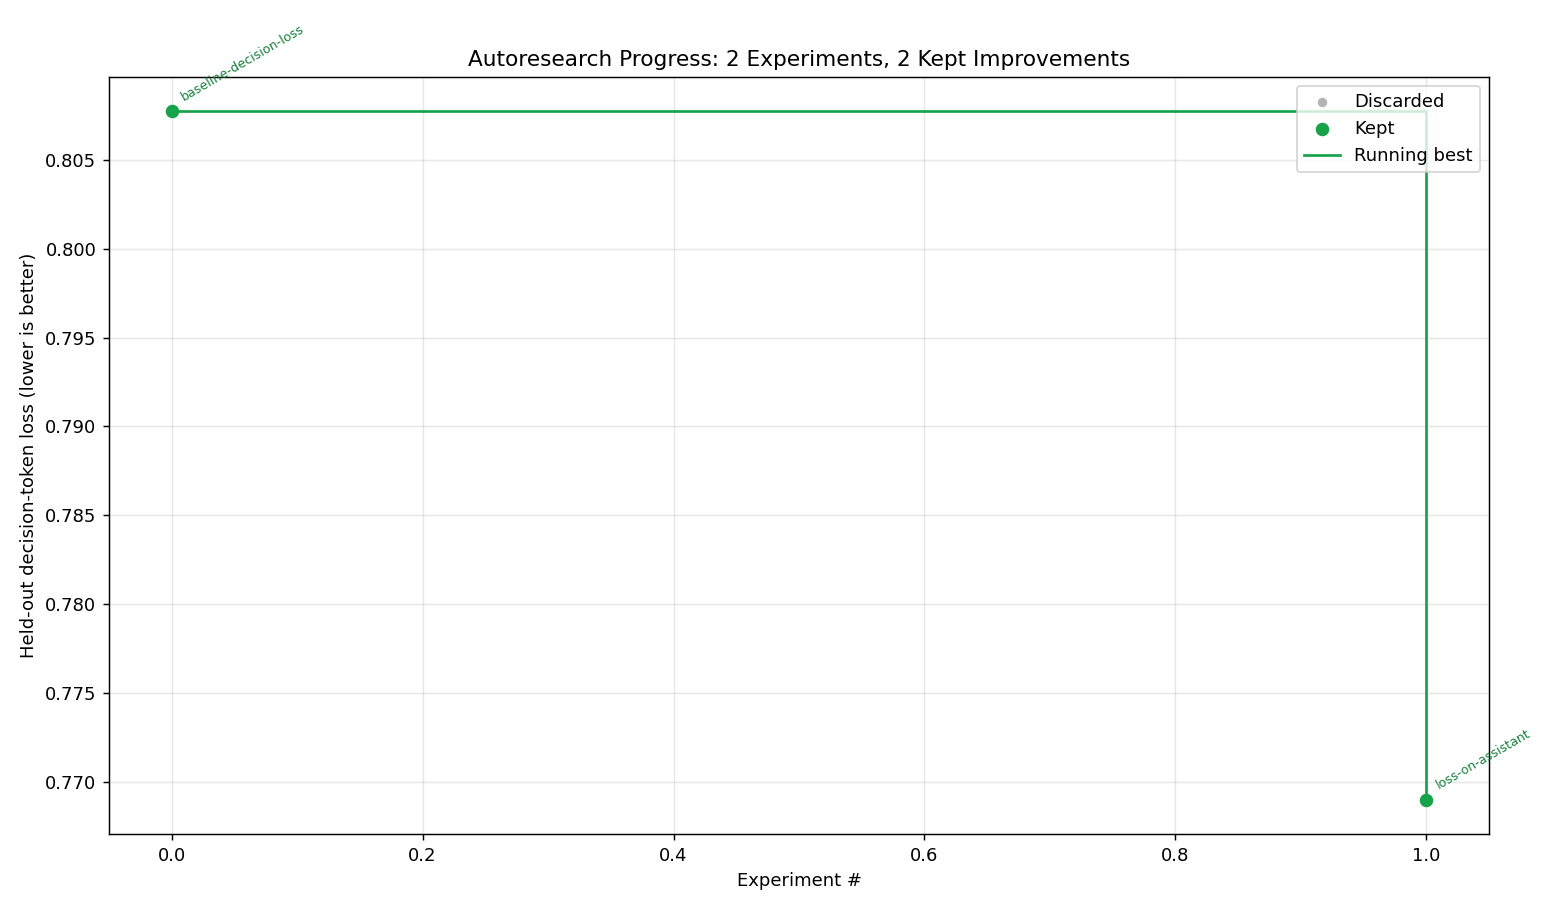
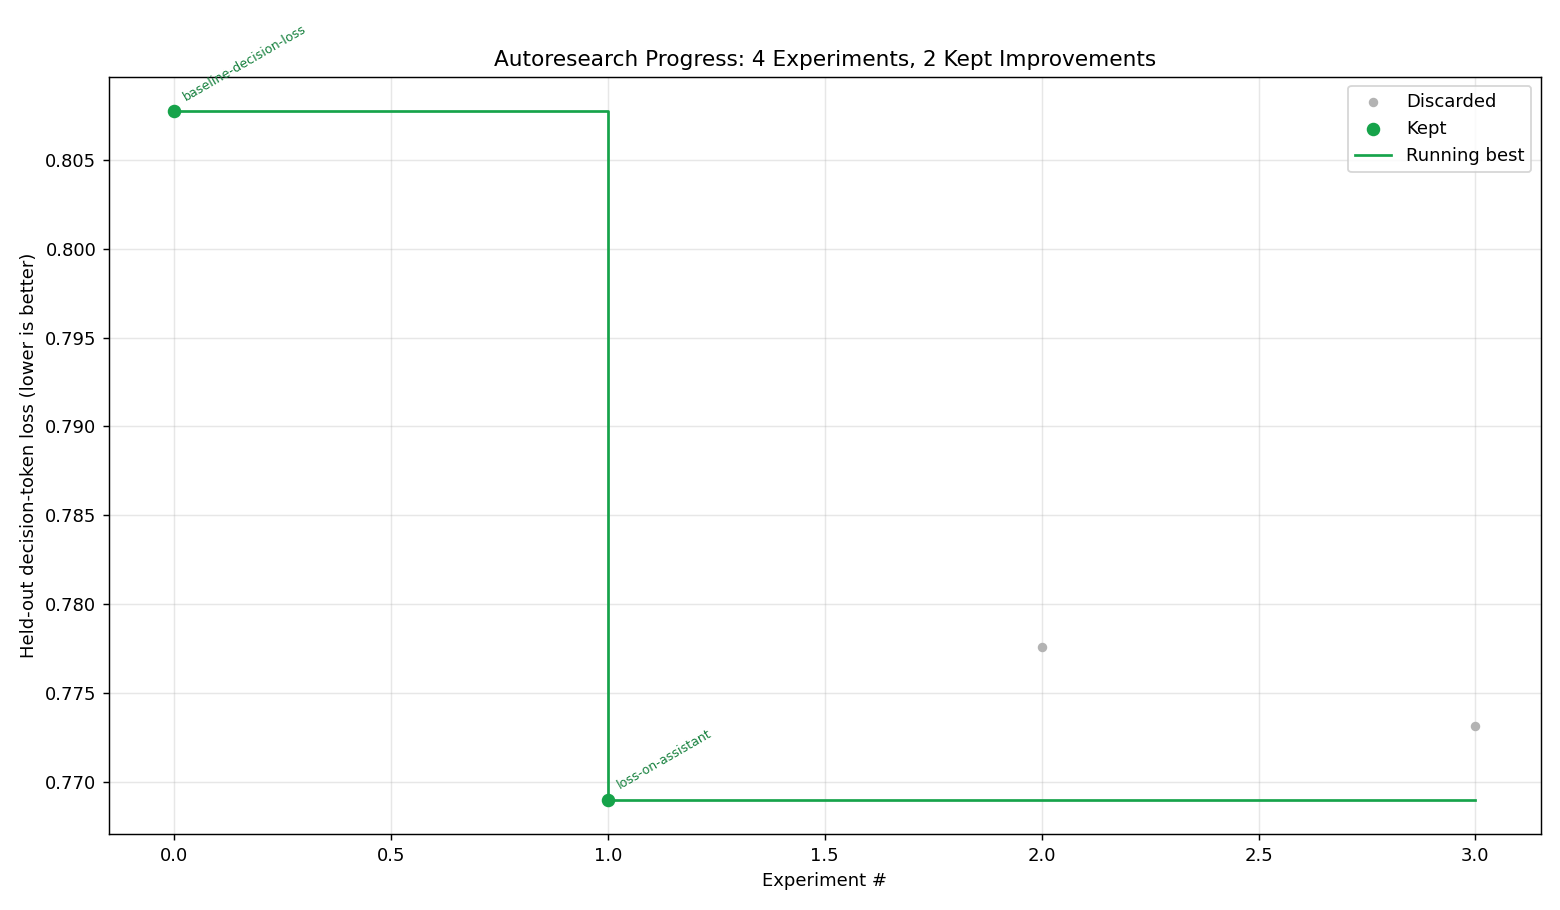
exp 0004 (oversample long x2) + 0005 (late-token weight): both discarded
Both 'do more on long/late' levers hurt every bucket (oversample 0.778, late-weight
0.773 vs best 0.769). Reading: in a 64-step budget the long-bucket headroom is not
an exposure/late-emphasis problem -> likely undertraining or LoRA capacity. Queued
0006 (lr 2e-4) and 0007 (r32 + all-linear) to diagnose that fork.

diff --git a/RESEARCH_LOG.md b/RESEARCH_LOG.md
@@ -69,4 +69,28 @@ model is pushed to stay sharp there. Weights are scale-matched to mean-1 (only t
 relative emphasis changes; effective LR unchanged — verified the train-loss scale
 after fixing a grad-accum normalisation bug in the custom weighted loss).
 
+### exp 0004 & 0005 results — both discarded, and that's the signal
+- **0004** (oversample long×2): **0.7776**, discarded. Every bucket got *worse*,
+  including long (0.779 vs 0.774). In a ~64-step budget, duplicating long traces
+  trades diversity for repetition → worse generalisation. Also ran fewer steps (60).
+- **0005** (late-token weight 1→2): **0.77317**, discarded. Also worse across buckets
+  (long 0.778). Upweighting late tokens de-emphasises the early/mid decisions the
+  fixed head-eval rewards.
+- **Reading:** the two intuitive "spend more on long/late" levers both hurt. So the
+  long-bucket headroom is **not** an exposure or late-emphasis problem within the
+  8192 window — the likely bottleneck is simply **undertraining** (64 steps is tiny)
+  and/or **LoRA capacity**. Next: diagnose that fork before touching the eval window.
+
+### exp 0006 — lr 1e-4 → 2e-4
+**Chosen because:** in a step-limited budget the dominant question is how much the
+model learns per step. grad-norms were healthy (~0.7–0.9) at 1e-4, so there's room.
+If 2e-4 lowers loss broadly, undertraining is the bottleneck → pursue schedule /
+throughput (more steps per budget) next.
+
+### exp 0007 — LoRA r32 + all-linear targets
+**Chosen because:** r16 on attn-only may be too little capacity to fit decision
+behaviour. Add MLP targets (gate/up/down) and r32/α64. If this helps, capacity is
+the bottleneck → tune rank/placement; if not, capacity is fine and it's an
+optimisation/throughput problem.
+
 <!-- next entries appended at each steering check-in -->

diff --git a/EXPERIMENTS.md b/EXPERIMENTS.md
@@ -16,5 +16,7 @@ decision-loss curve).
 | 0001 | baseline | naive QLoRA: r16 attn-only, lr1e-4, no warmup, no packing | 0.93794 | full_seq | ✅ | 64 | 1215.5 |
 | 0002 | baseline-decision-loss | Re-anchor the curve on the decision-token metric: same recipe as 0001 (r16 attn-only, l... | 0.80773 | decision_loss | ✅ | 64 | 1201.2 |
 | 0003 | loss-on-assistant | First method change: supervise only the agent's own tokens (mask system/user/tool-outpu... | 0.76900 | decision_loss | ✅ | 64 | 1200.2 |
+| 0004 | oversample-long2 | Long bucket improved least under loss_on=assistant. Spend more of the fixed 64-step bud... | 0.77760 | decision_loss |  | 60 | 1217.7 |
+| 0005 | late-token-weight-2 | Quality decay / goal drift happen late in a trajectory. Upweight later-in-context decis... | 0.77317 | decision_loss |  | 64 | 1215.5 |
 
-_3 experiments logged; 2 on the decision-loss curve, 2 kept improvements._
+_5 experiments logged; 4 on the decision-loss curve, 2 kept improvements._
